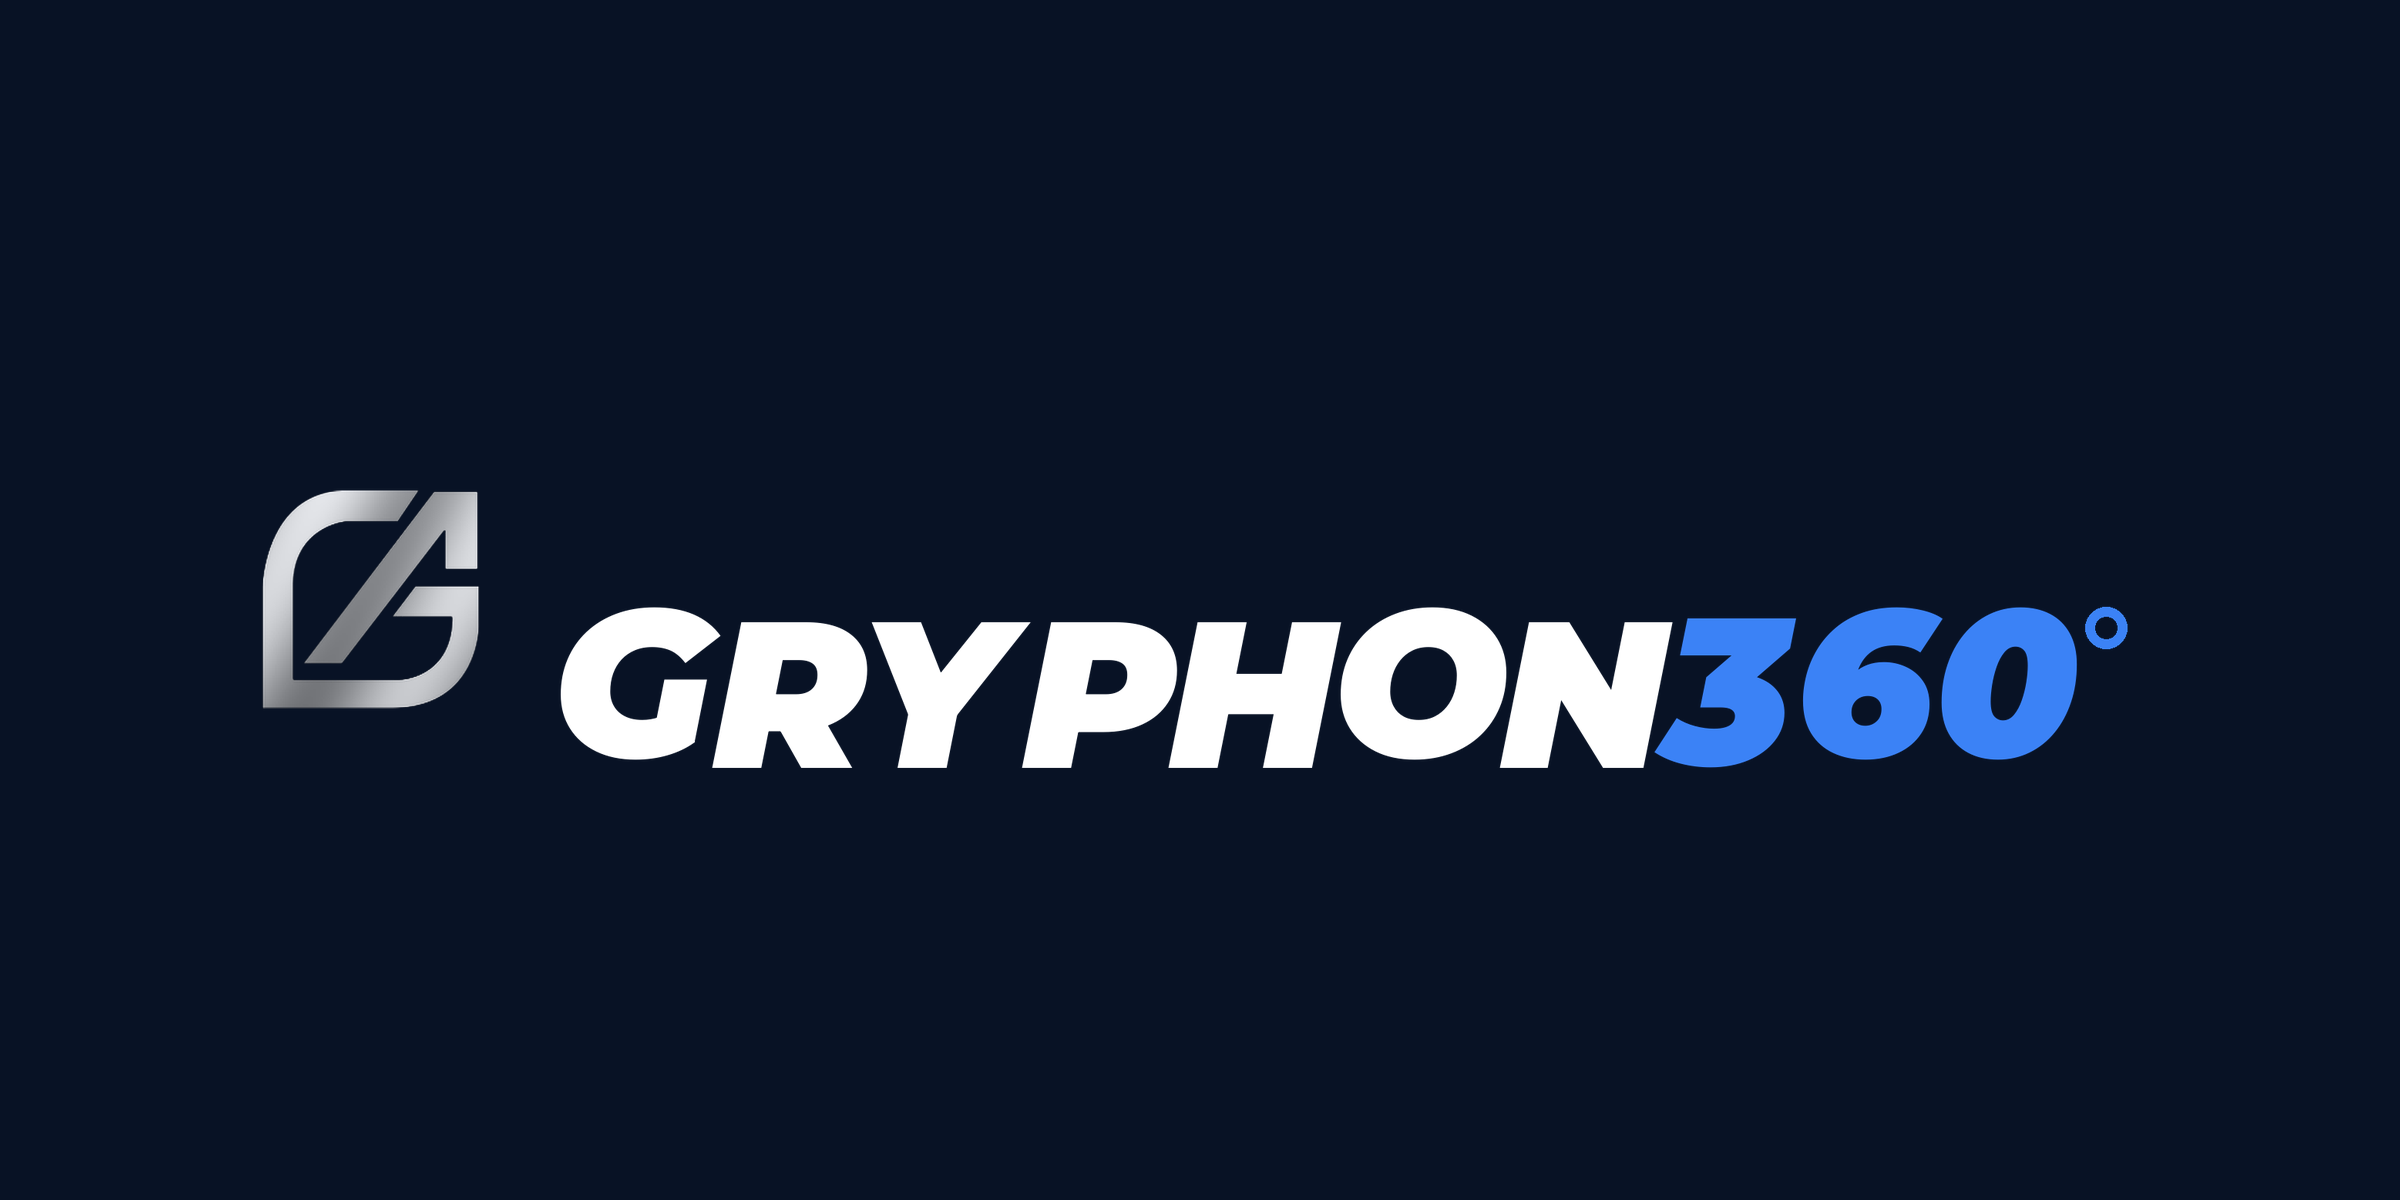
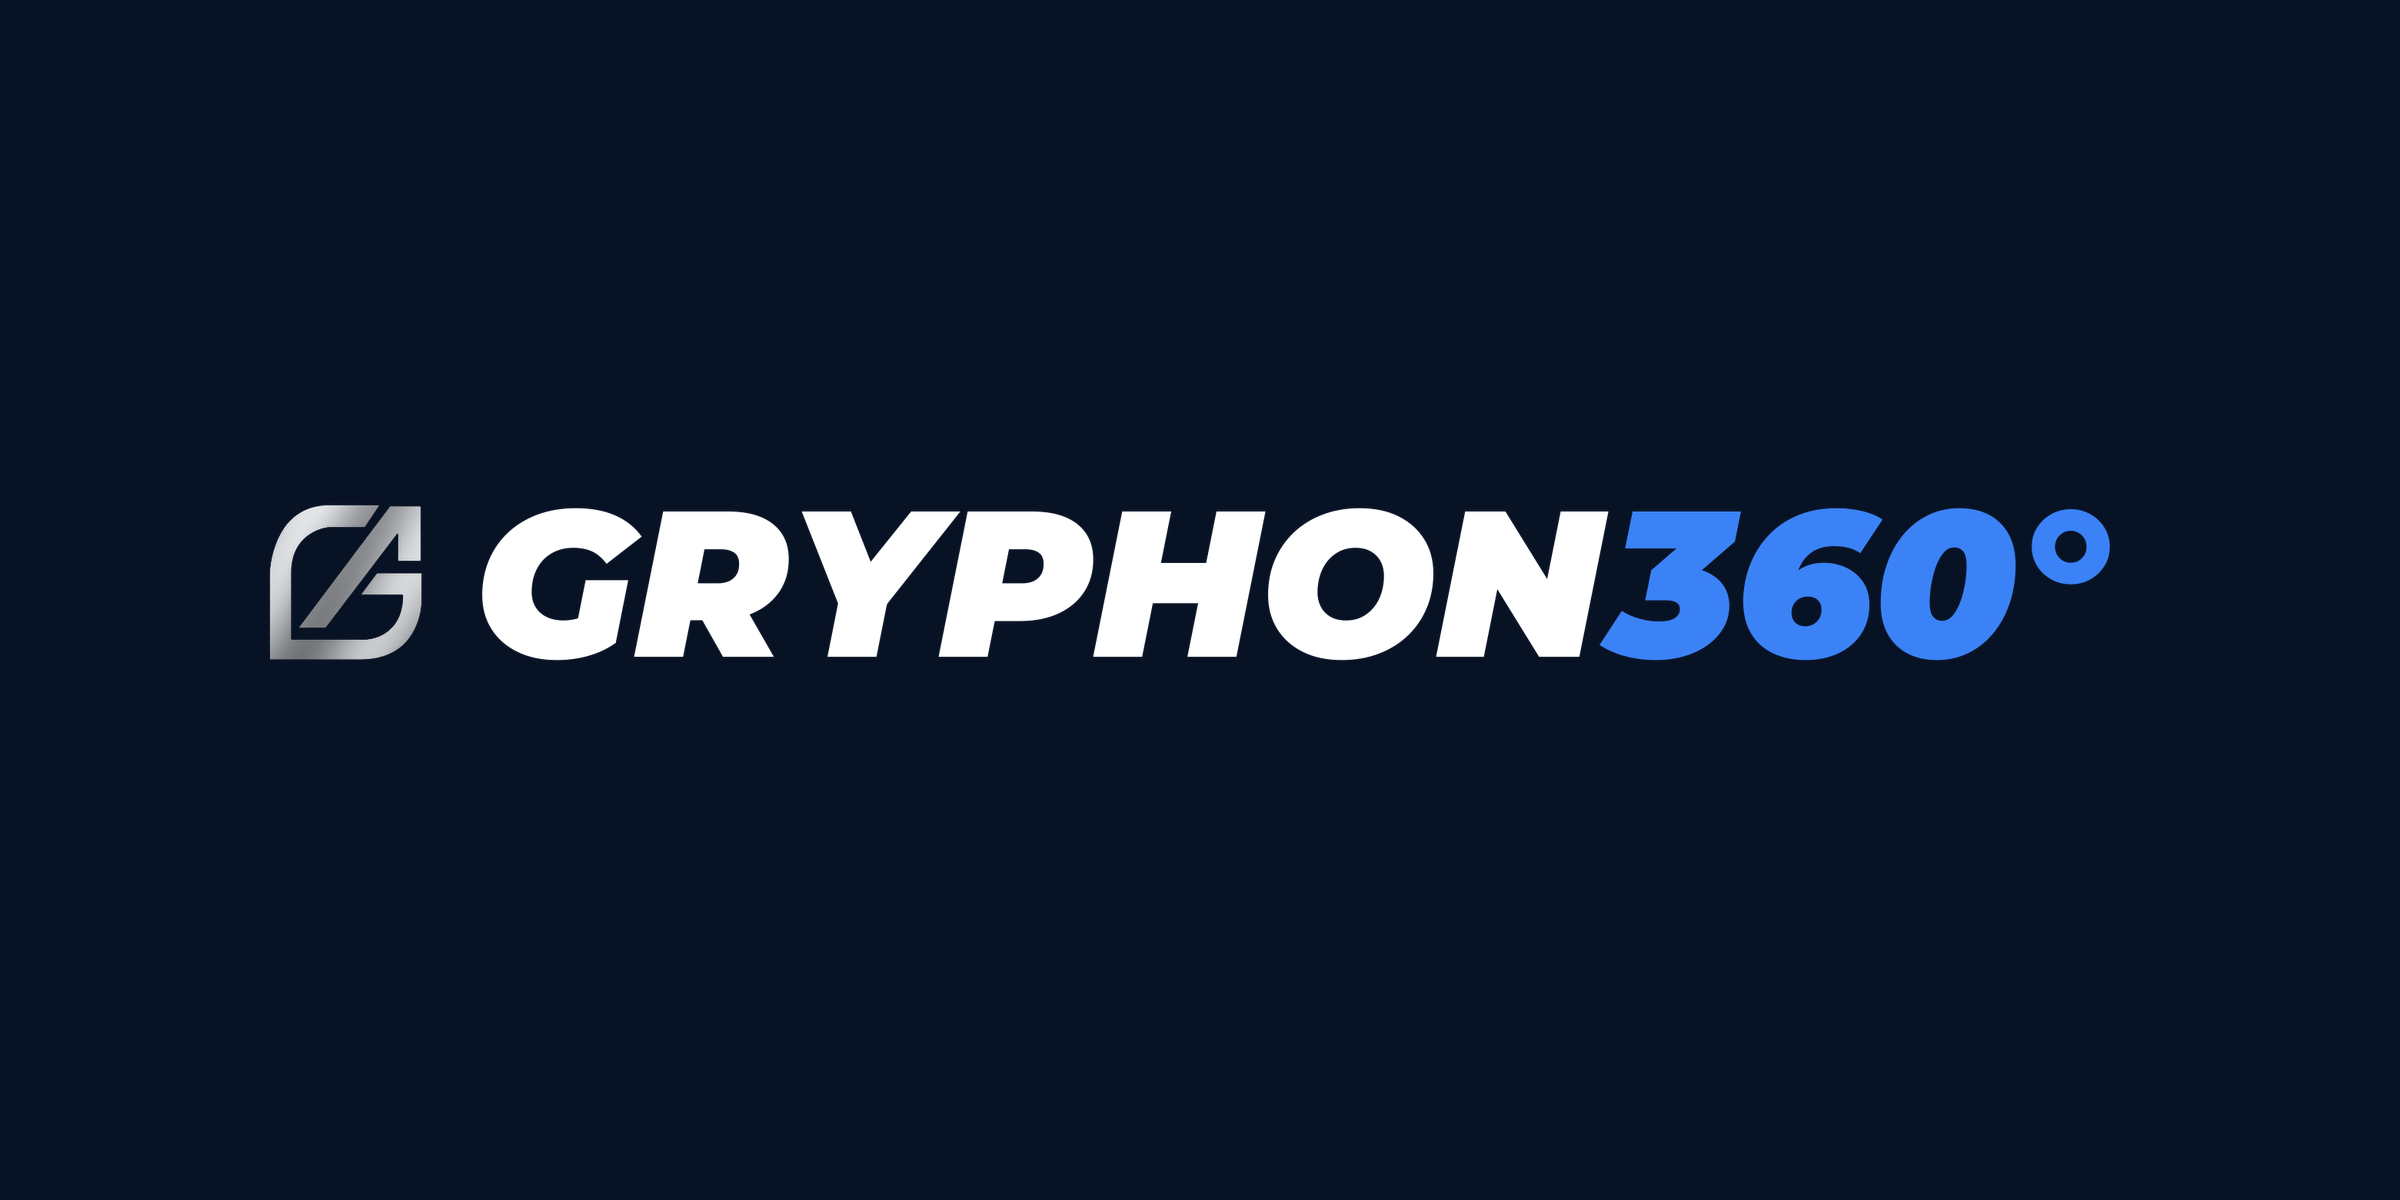
fix(branding): achieve pixel-perfect mathematical alignment across emblem, typography, and native italic degree mark

Changed region(s): [[0.0938, 0.4008, 0.9062, 0.6475]]

diff --git a/src/components/ui/GryphonLogo.tsx b/src/components/ui/GryphonLogo.tsx
@@ -15,31 +15,27 @@ export const GryphonLogo: React.FC<GryphonLogoProps> = ({
 }) => {
   const sizeMap = {
     sm: {
-      icon: "w-7 h-7",
+      icon: "h-5 w-auto",
       text: "text-lg",
       num: "text-lg",
-      deg: "w-2 h-2 -top-1",
       gap: "gap-2",
     },
     md: {
-      icon: "w-8 h-8",
+      icon: "h-6 w-auto",
       text: "text-xl",
       num: "text-xl",
-      deg: "w-2.5 h-2.5 -top-1.5",
       gap: "gap-2.5",
     },
     lg: {
-      icon: "w-10 h-10",
+      icon: "h-7 w-auto",
       text: "text-2xl",
       num: "text-2xl",
-      deg: "w-3 h-3 -top-2",
       gap: "gap-3",
     },
     xl: {
-      icon: "w-12 h-12",
+      icon: "h-9 w-auto",
       text: "text-3xl",
       num: "text-3xl",
-      deg: "w-3.5 h-3.5 -top-2.5",
       gap: "gap-3.5",
     },
   }[size];
@@ -58,36 +54,23 @@ export const GryphonLogo: React.FC<GryphonLogoProps> = ({
 
   return (
     <div className={`inline-flex items-center select-none group ${sizeMap.gap} ${className}`}>
-      {/* 🦅 Authentic G+A Geometric Silver Emblem */}
-      <div className={`relative ${sizeMap.icon} shrink-0 flex items-center justify-center transition-transform duration-300 group-hover:scale-105`}>
+      {/* 🦅 Authentic G+A Geometric Silver Emblem (Height-matched to cap height) */}
+      <div className={`shrink-0 flex items-center justify-center transition-transform duration-300 group-hover:scale-105`}>
         <img
           src="/ga-icon-silver.png"
           alt="Gryphon 360"
-          className="w-full h-full object-contain drop-shadow-[0_2px_8px_rgba(255,255,255,0.25)]"
+          className={`${sizeMap.icon} object-contain drop-shadow-[0_2px_8px_rgba(255,255,255,0.25)]`}
         />
       </div>
 
-      {/* 🏛 VISA-Inspired Bold Italic Wordmark (Clean zero-gap lockup with degree circle) */}
+      {/* 🏛 VISA-Inspired Bold Italic Wordmark (Rock-solid baseline & native degree) */}
       {!iconOnly && (
         <div className="font-heading font-black italic uppercase leading-none flex items-baseline tracking-[-0.045em]">
-          {/* GRYPHON */}
           <span className={`${sizeMap.text} ${primaryTextColor} transition-colors`}>
             GRYPHON
           </span>
-
-          {/* 360 with Clean Degree Circle (Solid Primary Blue, Zero-gap) */}
-          <span className={`${primaryBlueColor} ${sizeMap.num} flex items-baseline`}>
-            360
-            {/* Clean, perfectly-scaled degree circle ring */}
-            <span className={`relative ${sizeMap.deg} ml-0.5 inline-flex items-center justify-center shrink-0`}>
-              <svg
-                className="w-full h-full text-current"
-                viewBox="0 0 16 16"
-                fill="none"
-              >
-                <circle cx="8" cy="8" r="5" stroke="currentColor" strokeWidth="2.4" />
-              </svg>
-            </span>
+          <span className={`${primaryBlueColor} ${sizeMap.num} transition-colors`}>
+            360°
           </span>
         </div>
       )}
